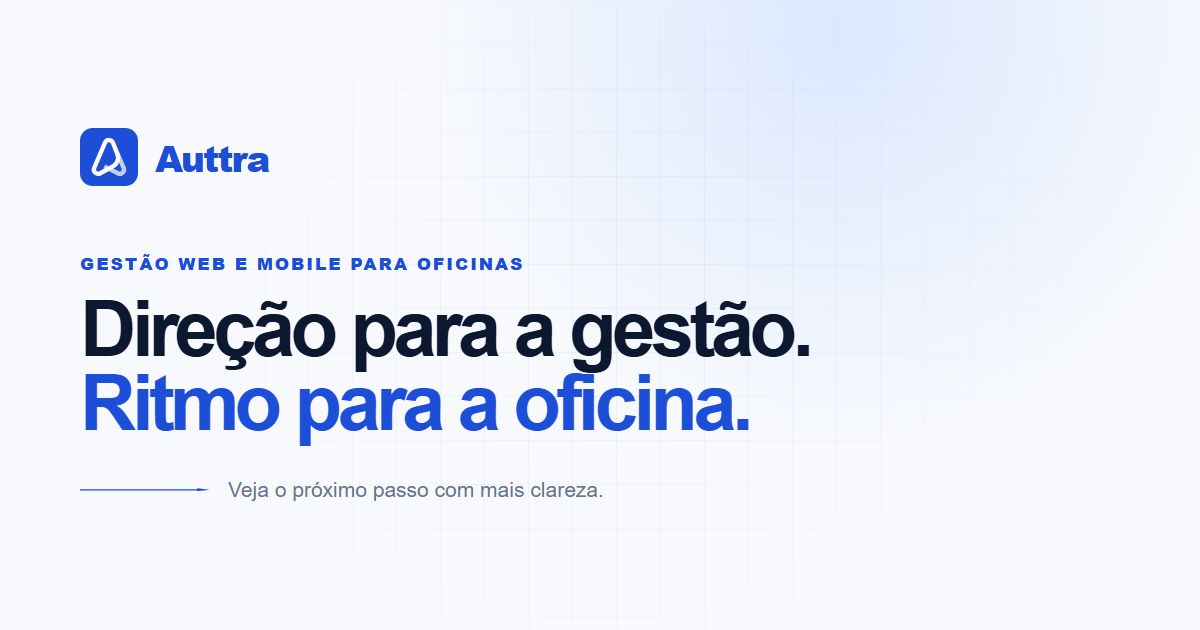
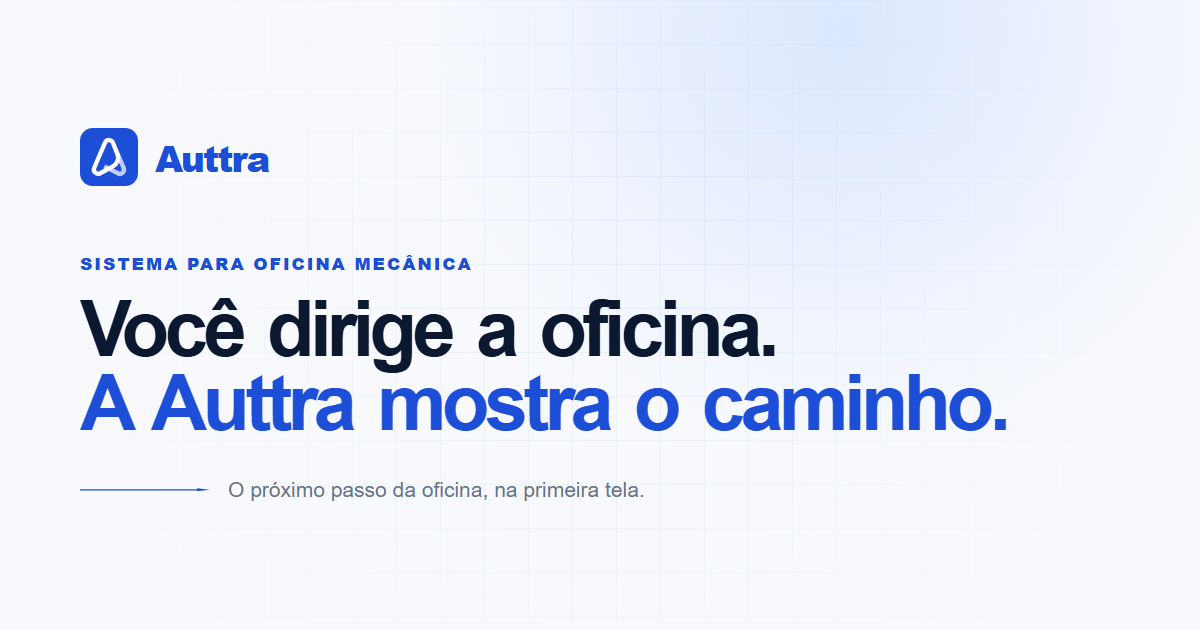
Textos da página inicial com a ideia de direção da marca
- Título: "Sistema para oficina que mostra o próximo passo", com os
  avisos reais logo abaixo
- Seções reescritas em torno de próximo passo e caminho do carro
- Slogan "Você dirige a oficina. A Auttra mostra o caminho." no rodapé,
  no texto e na imagem de compartilhamento
- Descrição para o Google falando do próximo passo
- PRODUCT.md com o slogan e a regra de uso da direção nos textos

Changed region(s): [[0.0617, 0.3921, 0.8633, 0.7238], [0.185, 0.754, 0.5242, 0.8143]]

diff --git a/src/App.tsx b/src/App.tsx
@@ -258,9 +258,9 @@ function App() {
           <div className="direction-trails" aria-hidden="true"><i /><i /><i /></div>
           <div className="shell hero-grid">
             <div className="hero-copy">
-              <h1>Sistema para oficina que avisa <span>o que precisa de atenção.</span></h1>
+              <h1>Sistema para oficina que mostra <span>o próximo passo.</span></h1>
               <p>
-                Carro parado, cliente devendo, peça acabando: a Auttra mostra na tela inicial antes de virar prejuízo. Com ordem de serviço, orçamento, agenda, estoque e financeiro num só lugar, no computador e no celular.
+                Abriu a Auttra, ela já aponta: O.S. parada há mais de 5 dias, cliente com conta vencida, orçamento sem resposta, peça acabando. Cada aviso abre a lista certa para resolver, com ordem de serviço, orçamento, agenda, estoque e financeiro num só lugar.
               </p>
               <div className="hero-actions">
                 <DemoLink>Solicitar demonstração <Icon name="arrow" size={18} /></DemoLink>
@@ -268,7 +268,7 @@ function App() {
               </div>
             </div>
             <div className="hero-alert">
-              <AlertPanel row={alertCycle.row} label="Dados de exemplo" />
+              <AlertPanel row={alertCycle.row} label="Hoje, comece por aqui" />
               <p className="hero-alert-caption" aria-hidden="true" key={alertCycle.row}>
                 <b>{activePair.alert}</b> {activePair.rule}
               </p>
@@ -279,8 +279,8 @@ function App() {
         <section id="atencao" className="pairs-section section">
           <div className="shell">
             <div className="pairs-heading" data-reveal="up">
-              <h2>Carro esquecido no pátio, cliente devendo, peça que acabou no meio do serviço.</h2>
-              <p>Quase todo prejuízo de oficina começa em algo que ninguém viu a tempo. A tela inicial da Auttra mostra cada um desses sinais, e cada aviso abre a lista certa para resolver.</p>
+              <h2>Sem aviso, o problema só aparece quando já virou prejuízo.</h2>
+              <p>Carro esquecido no pátio, cliente devendo, peça que acabou no meio do serviço. A tela inicial da Auttra mostra cada um desses sinais a tempo, e cada aviso abre a lista certa para resolver.</p>
             </div>
             <div className="pairs-table" data-reveal="up">
               <div className="pairs-head" aria-hidden="true">
@@ -309,8 +309,8 @@ function App() {
         <section id="produto" className="product-section section">
           <div className="shell">
             <div className="product-heading" data-reveal="up">
-              <h2>O caminho do carro, tela por tela.</h2>
-              <p>Do agendamento ao recebimento. Telas reais da plataforma, só os dados são de exemplo.</p>
+              <h2>Do orçamento ao recebimento, cada etapa aponta a próxima.</h2>
+              <p>O caminho do carro, tela por tela. Telas reais da plataforma, só os dados são de exemplo.</p>
             </div>
 
             <div className="module-tabs" role="tablist" aria-label="Etapas na plataforma" data-reveal="up">
@@ -401,7 +401,7 @@ function App() {
         <section id="mobile" className="mobile-section section">
           <div className="shell mobile-layout">
             <div className="mobile-copy" data-reveal="up">
-              <h2>A oficina também acompanha você no celular.</h2>
+              <h2>Longe da oficina, sem perder o rumo dela.</h2>
               <p>Consulte o que precisa de atenção, a agenda e as ordens de serviço de onde estiver, ao longo do dia.</p>
               <ul>
                 <li><Icon name="check" size={18} /><span><b>Sem instalar nada</b> Abre no navegador do celular, com a mesma conta.</span></li>
@@ -444,7 +444,7 @@ function App() {
 
         <section id="demonstracao" className="final-cta lead-section shell" data-reveal="scale">
           <div className="lead-copy">
-            <h2>Uma demonstração com a cara da sua oficina.</h2>
+            <h2>Veja o caminho da sua oficina dentro da Auttra.</h2>
             <p>Conte um pouco sobre a oficina. Ao enviar, o WhatsApp abre com tudo preenchido para combinar a demonstração.</p>
             <ul>
               <li><Icon name="check" size={17} /> O caminho do carro: orçamento, O.S. e recebimento</li>

diff --git a/public/og-card.html b/public/og-card.html
@@ -4,9 +4,9 @@
     <meta charset="UTF-8" />
     <meta name="viewport" content="width=device-width, initial-scale=1.0" />
     <style>
-      *{box-sizing:border-box}html,body{width:1200px;height:630px;margin:0;overflow:hidden}body{display:grid;place-items:center;font-family:Inter,Arial,sans-serif;color:#0c1730;background:radial-gradient(circle at 70% 5%,#dce8ff,transparent 40%),#f7f9fc}.grid{position:absolute;inset:0;background-image:linear-gradient(rgba(29,78,216,.06) 1px,transparent 1px),linear-gradient(90deg,rgba(29,78,216,.06) 1px,transparent 1px);background-size:44px 44px;mask-image:radial-gradient(circle at center,#000,transparent 80%)}main{position:relative;width:1040px}.brand{display:flex;align-items:center;gap:17px;color:#1d4ed8;font-size:36px;font-weight:850;letter-spacing:-.05em}.brand img{width:58px;height:58px}.eyebrow{margin-top:65px;color:#1d4ed8;font-size:17px;font-weight:850;letter-spacing:.12em;text-transform:uppercase}h1{max-width:1000px;margin:18px 0 0;font-size:78px;line-height:.94;letter-spacing:-.06em}h1 span{color:#1d4ed8}.foot{display:flex;align-items:center;gap:18px;margin-top:38px;color:#66758d;font-size:21px}.arrow{width:130px;height:3px;background:#1d4ed8;clip-path:polygon(0 30%,90% 30%,90% 0,100% 50%,90% 100%,90% 70%,0 70%)}
+      *{box-sizing:border-box}html,body{width:1200px;height:630px;margin:0;overflow:hidden}body{display:grid;place-items:center;font-family:Inter,Arial,sans-serif;color:#0c1730;background:radial-gradient(circle at 70% 5%,#dce8ff,transparent 40%),#f7f9fc}.grid{position:absolute;inset:0;background-image:linear-gradient(rgba(29,78,216,.06) 1px,transparent 1px),linear-gradient(90deg,rgba(29,78,216,.06) 1px,transparent 1px);background-size:44px 44px;mask-image:radial-gradient(circle at center,#000,transparent 80%)}main{position:relative;width:1040px}.brand{display:flex;align-items:center;gap:17px;color:#1d4ed8;font-size:36px;font-weight:850;letter-spacing:-.05em}.brand img{width:58px;height:58px}.eyebrow{margin-top:65px;color:#1d4ed8;font-size:17px;font-weight:850;letter-spacing:.12em;text-transform:uppercase}h1{max-width:1000px;margin:18px 0 0;font-size:78px;line-height:.94;letter-spacing:-.06em}h1 span{color:#1d4ed8}h1{word-spacing:.1em}.foot{display:flex;align-items:center;gap:18px;margin-top:38px;color:#66758d;font-size:21px}.arrow{width:130px;height:3px;background:#1d4ed8;clip-path:polygon(0 30%,90% 30%,90% 0,100% 50%,90% 100%,90% 70%,0 70%)}
     </style>
     <title>Auttra Social Card</title>
   </head>
-  <body><div class="grid"></div><main><div class="brand"><img src="/favicon.svg" alt="" />Auttra</div><div class="eyebrow">Gestão web e mobile para oficinas</div><h1>Direção para a gestão.<br><span>Ritmo para a oficina.</span></h1><div class="foot"><div class="arrow"></div>Veja o próximo passo com mais clareza.</div></main></body>
+  <body><div class="grid"></div><main><div class="brand"><img src="/favicon.svg" alt="" />Auttra</div><div class="eyebrow">Sistema para oficina mecânica</div><h1>Você dirige a oficina.<br><span>A Auttra mostra o caminho.</span></h1><div class="foot"><div class="arrow"></div>O próximo passo da oficina, na primeira tela.</div></main></body>
 </html>

diff --git a/src/site/home.ts b/src/site/home.ts
@@ -4,10 +4,10 @@ export const homeMeta = {
   path: "/",
   title: "Sistema para oficina mecânica | Auttra",
   description:
-    "Sistema para oficina mecânica: ordem de serviço, orçamento em PDF no WhatsApp, agenda, estoque com XML da nota, financeiro e 11 relatórios. No navegador, no computador e no celular.",
+    "Sistema para oficina mecânica que mostra o próximo passo: O.S. parada, conta vencida, orçamento sem resposta e estoque crítico na tela inicial. Peça uma demonstração.",
   socialTitle: "Auttra | Sistema para oficina mecânica",
-  socialDescription: "Centralize a rotina da oficina e veja o que precisa de atenção agora.",
-  updated: "2026-11-04",
+  socialDescription: "Você dirige a oficina. A Auttra mostra o caminho.",
+  updated: "2026-11-05",
 };
 
 // O que o sistema faz, em frases curtas. Vai para o `featureList` do schema e para o llms.txt.

diff --git a/src/components/Shared.tsx b/src/components/Shared.tsx
@@ -329,7 +329,7 @@ function Footer() {
   return (
     <footer>
       <div className="shell footer-main">
-        <div><img src={logo} alt="Auttra" /><p>Sistema de gestão para oficina mecânica.</p><a className="footer-email" href={`mailto:${CONTACT_EMAIL}`}>{CONTACT_EMAIL}</a></div>
+        <div><img src={logo} alt="Auttra" /><p className="footer-tagline">Você dirige a oficina. A Auttra mostra o caminho.</p><p>Sistema de gestão para oficina mecânica.</p><a className="footer-email" href={`mailto:${CONTACT_EMAIL}`}>{CONTACT_EMAIL}</a></div>
         <nav aria-label="Navegação do rodapé">
           {navigation.map(([label, href]) => <a href={sectionHref(href)} key={href}>{label}</a>)}
         </nav>

diff --git a/src/styles.css b/src/styles.css
@@ -391,6 +391,8 @@ footer { color: white; background: #061025; }
 .footer-main { min-height: 220px; display: grid; grid-template-columns: 1fr auto 1fr; gap: 60px; align-items: center; }
 .footer-main img { width: 130px; filter: brightness(0) invert(1); }
 .footer-main p { margin: 14px 0 0; color: #8391a8; font-size: 13px; }
+.footer-main .footer-tagline { margin-top: 18px; color: white; font-size: 15px; font-weight: 650; }
+.footer-main .footer-tagline + p { margin-top: 4px; }
 .footer-email { display: inline-block; margin-top: 10px; color: #a9b4c5; font-size: 12px; }
 .footer-main nav { display: flex; gap: 24px; }
 .footer-main nav a { color: #a9b4c5; font-size: 13px; font-weight: 600; }

diff --git a/PRODUCT.md b/PRODUCT.md
@@ -49,6 +49,7 @@ Técnico (site): Vite + Preact com HTML pré-renderizado por rota, hospedado na 
 ## Brand Commitments
 
 - Nome: Auttra. Logo em `src/assets/auttra-logo.svg` e símbolo em `public/favicon.svg`; a narrativa da marca parte da flecha do símbolo (direção para a gestão, clareza sobre o próximo passo).
+- Slogan: "Você dirige a oficina. A Auttra mostra o caminho." Nos textos, a direção aparece como "o próximo passo" e "por onde começar", sempre seguida de um aviso real do sistema; a flecha não vira padrão gráfico.
 - Voz: português do Brasil, direto e concreto, na linguagem da oficina ("carro parado no pátio", "peça que acabou no meio do serviço"); fala com "você" e evita jargão de software.
 - Telas do produto mostradas no site são capturas reais (`src/assets/screens/`) com dados de exemplo da "Oficina Central", sempre identificadas como dados de exemplo.
 
